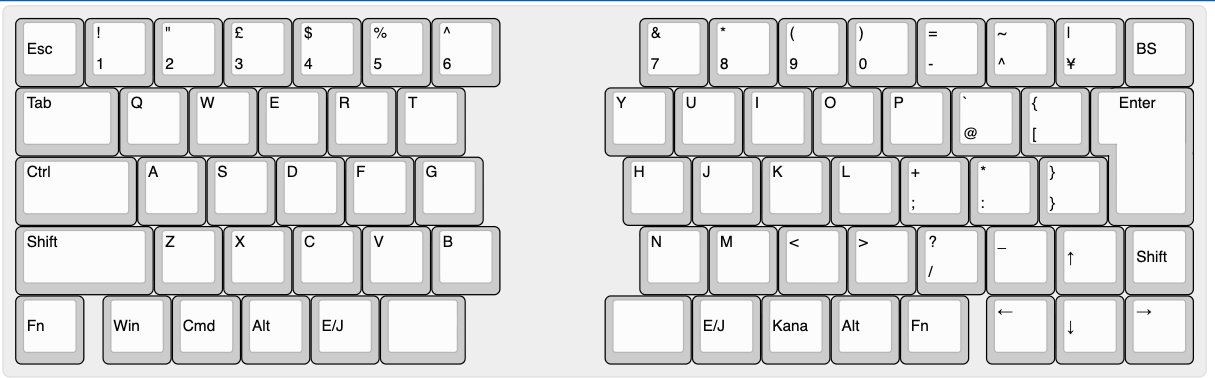
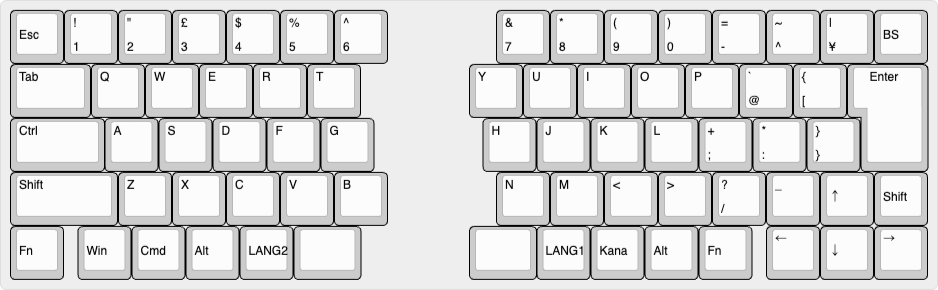
keymap

Changed region(s): [[0.0, 0.0, 1.0, 0.9931], [0.2473, 0.8379, 0.3092, 0.9], [0.9893, 0.9931, 1.0, 1.0]]

diff --git a/build-guide/05-CUSTOMIZE.md b/build-guide/05-CUSTOMIZE.md
@@ -86,7 +86,7 @@ GitHub Actionsは、GitHub上でファームウェアを自動ビルドする仕
 
 GitHub上で直接ファイルを編集する場合は、Gitのコマンド操作は必須ではありません。GitHubのFork操作に慣れていない場合は、[GitHub公式のフォーク手順](https://docs.github.com/ja/pull-requests/collaborating-with-pull-requests/working-with-forks/fork-a-repo)も参照してください。
 
-### 最初に触るファイル
+### 最初に変更するファイル
 
 はじめてファームウェアを変更する場合は、まず`cleave_hhjp.keymap`だけを編集することを推奨します。
 
